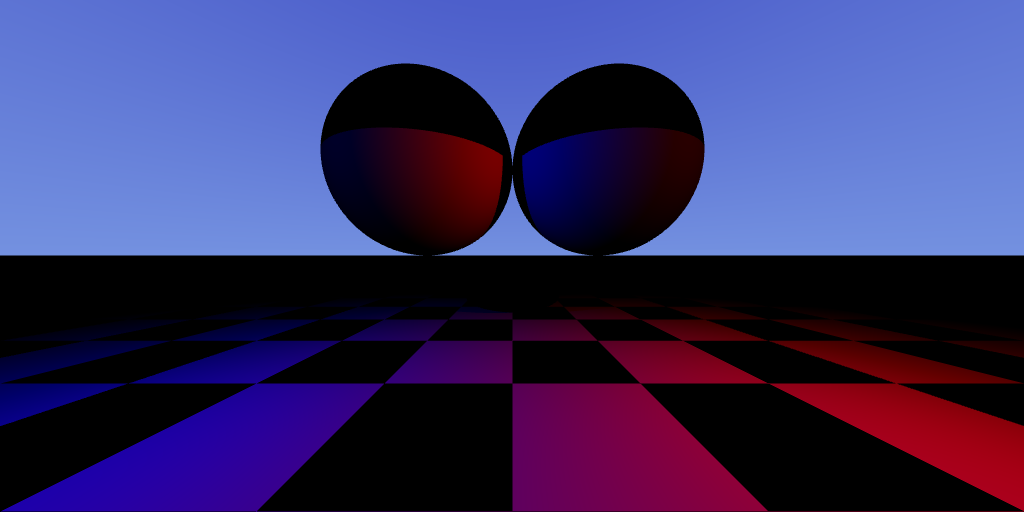
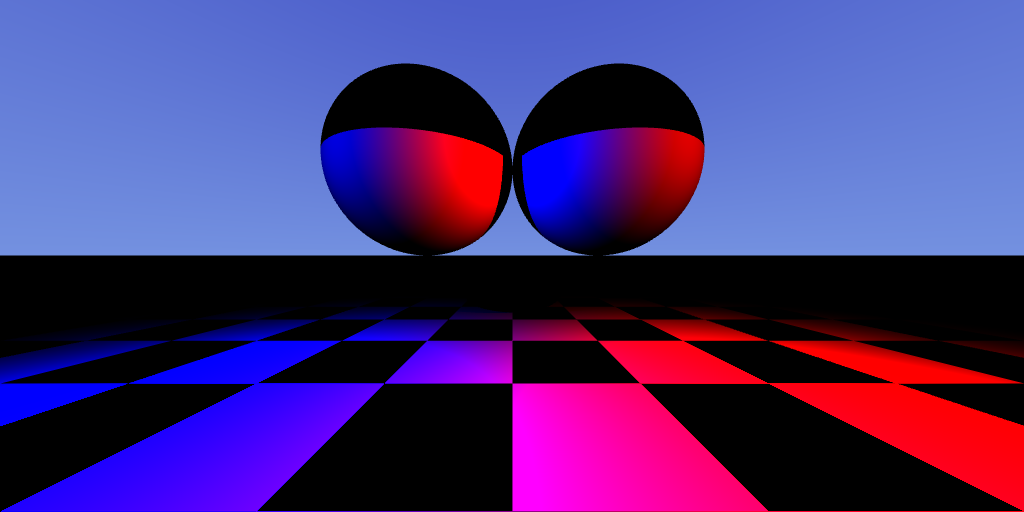
Improved point light attenuation

Changed region(s): [[0.0, 0.5938, 1.0, 1.0], [0.3125, 0.25, 0.6875, 0.5], [0.4375, 0.5938, 0.4688, 0.625]]

diff --git a/src/synthese/Light.cpp b/src/synthese/Light.cpp
@@ -6,6 +6,8 @@
 #include "synthese/Light.hpp"
 
 #include <cmath>
+
+#include "utility.hpp"
 #include "synthese/Scene.hpp"
 
 Light::Light(const Color& color) : color(color) { }
@@ -46,8 +48,9 @@ Color PointLight::calculate(const Hit& hit, const Point& point, const Scene* sce
 
     if(isInShadow(hit.object, ray, scene)) { return Black(); }
 
-    float attenuation = 1.0f - std::clamp(distance / radius, 0.0f, 1.0f);
+    float windowing = pow2(std::max(1.0f - pow2(distance / radius), 0.0f));
+    float attenuation = windowing * (pow2(radius) / (pow2(distance) + radius));
     float cos_theta = std::max(dot(hit.normal, ray.direction), 0.0f);
 
-    return color * attenuation * cos_theta;
+    return color * (attenuation * cos_theta);
 }
